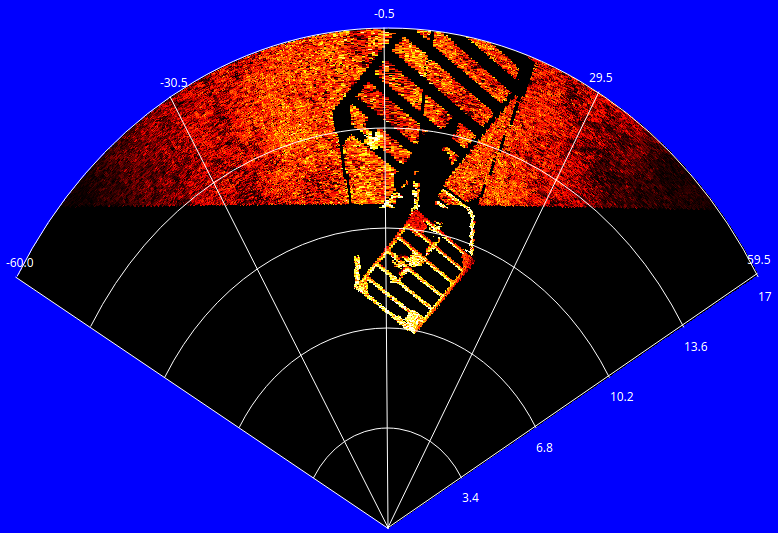
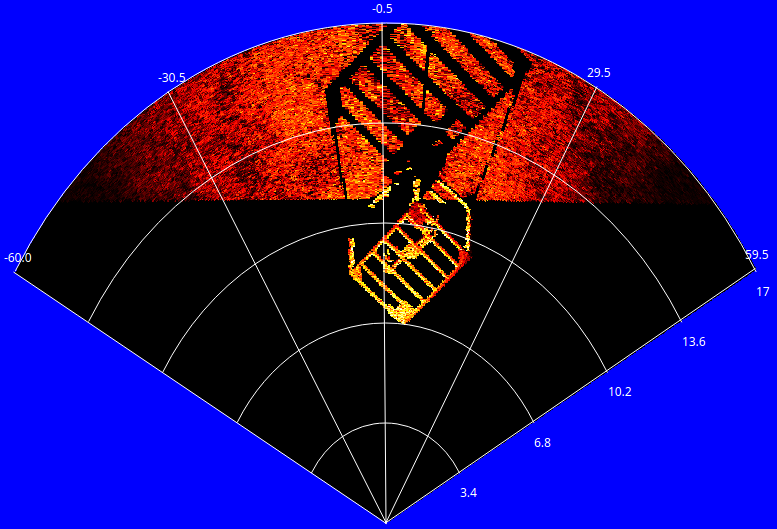
Update on Overleaf.

diff --git a/elsarticle-template-3-num.tex b/elsarticle-template-3-num.tex
@@ -590,7 +590,6 @@ using an MSIS located in the back of the AUV with a vertical orientation, the sc
 All the experimental scenarios was defined in order to provide enough variability of specific phenomena usually found in real sonar images, such as acoustic shadows, noise interference, surface irregularities and properties, distortion during the acquisition process and changes of acoustic intensities. However, the speckle noise application is restricted to regions with acoustic intensity, as shown in Figs. \ref{fig:fls_sim3} and \ref{fig:msis_sim1}. This fact is due to our sonar model be multiplicative (defined in Eq. \ref{eq:2}). In real sonar images, the noise also granulates the shadows and blind regions. The sonar simulator can be improved by inserting an additive noise to our model.
 The impact of incorporating additive noise on the image is more severe than that of multiplicative, and we decided to collect more data before including a specific additive noise in our simulator, at this moment. A second feature missing in our simulated acoustic images are the ghost effects caused by reverberation. This lacking part can be addressed by implementation of a multi-path propagation model \cite{huang2015b}, where the signal propagates along several different paths, resulting in fading and reverberation effects. Simulating the multi-path reflection is computationally costly, thus we need more time to modeling and including the reverberation phenomenon, to consider the real-time constraints.
 
-
 \begin{figure*}[!ht]
     \centering
     \setcounter{subfigure}{0}
@@ -600,12 +599,22 @@ The impact of incorporating additive noise on the image is more severe than that
     }
     \setcounter{subfigure}{1}
     \subfigure[]{
-        \includegraphics[width=0.4\paperwidth,height=6cm]{figs/eval_ssiv_sim2}
+        \includegraphics[width=0.4\paperwidth,height=6cm]{figs/eval_ssiv_sim}
         \label{fig:eval:ssiv:sim}
     }
+    \setcounter{subfigure}{2}
+    \subfigure[]{
+        \includegraphics[width=0.4\paperwidth,height=6cm]{figs/eval_tank_real}
+        \label{fig:eval:tank:real}
+    }
+    \setcounter{subfigure}{3}
+    \subfigure[]{
+        \includegraphics[width=0.4\paperwidth,height=6cm]{figs/eval_tank_sim}
+        \label{fig:eval:tank:sim}
+    }
     \captionsetup{justification=justified}
-    \caption{\textcolor{blue}{Real-world sonar image of SSIV taken with Tritech Gemini 720i \subref{fig:eval:ssiv:real} and the virtual image generated by our approach \subref{fig:eval:ssiv:sim}.}}
-    \label{fig:eval:real}
+    \caption{\textcolor{blue}{Real-world sonar images and the virtual images generated by our approach, with the same device configurations: SSIV taken with Tritech Gemini 720i \subref{fig:eval:ssiv:real} and the corresponding simulated FLS image \subref{fig:eval:ssiv:sim}; tank walls taken with Tritech Micron DST \subref{fig:eval:tank:real} and the corresponding simulated MSIS representation \subref{fig:eval:tank:sim}.}}
+    \label{fig:eval}
 \end{figure*}
 
 \subsection{Computational time}
@@ -618,32 +627,17 @@ proportional to sonar image resolution, we can conclude that the number of bins 
 
 \subsection{\textcolor{blue}{Quality evaluation of the simulated sonar image}}
 
-\textcolor{blue}{Numerically assessing the performance of a sonar simulator is a non-trivial task. As sonar simulators must work as trustworthy environment to avoid in-field experiments, the goal of the quantitative evaluation should be to demonstrating that the real-world sonar image can be aligned with the synthetic one. Just two \cite{sac2015,demarco2015} out of the seven works analyzed in Section \ref{introduction} perform quantitative evaluation of the proposed simulators, although restricted only to computational time assessment.}
+\textcolor{blue}{Numerically assessing the performance of a sonar simulator is a non-trivial task. As sonar simulators is expected to work as trustworthy environment to avoid in-field experiments, the goal of the quantitative evaluation should be to demonstrating that the real-world sonar image can be aligned with the synthetic one. Just two \cite{sac2015,demarco2015} out of the seven works analyzed in Section \ref{introduction} perform quantitative evaluation of the proposed simulators, although restricted only to computational time assessment.}
 
-\textcolor{blue}{Image alignment should be carried out by considering a real-world and a virtual scene, both insonified by real and virtual sonar devices, respectively, in the exact same conditions. In other words, it means that we have to guarantee the same pose of the AUV in the real and virtual scenarios, which, in turn, should present the same elements being insonified; measuring the alignment of the images (real and virtual) works as comparing how much the simulated sonar image is similar to the real one with respect to pixel intensity and location.}
+\textcolor{blue}{Image alignment (similarity) should be carried out by considering a real-world and a virtual scene, both insonified by real and virtual sonar devices, respectively, in the exact same conditions. In other words, it means that we have to guarantee the same poses of the AUV in the real and virtual scenarios, which, in turn, should present the same elements being insonified; measuring the alignment of the images (real and virtual) works as comparing how much the simulated sonar image is similar to the real one with respect to pixel intensity and location.}
 
-\textcolor{blue}{The process of measuring the alignment (similarity) of two images can be performed by a set of measures, such as: mutual information (MI), mean-squared error (MSE), peak signal-to-noise ratio (PSNR), structural similarity index measure (SSIM), and interesting point detectors and distances (\textit{e.g.}, scale invariant feature transform - SIFT). To evaluate the alignment between the real and virtual images, we attempted to model two real scenes insonified by our AUV under the sea. Figure XX illustrated the two scenarios used to perform the evaluation. After the scenes were modeled, a pair of sonar images were produced: one from the real sonar device and another from the simulated sonar device, for each scene (see Figs. XX and XX). After that, we applied the five aforementioned alignment metrics to compute the degree of similarity between each pair of images.}
+\textcolor{blue}{The process of measuring the alignment of two images can be performed by a set of measures, such as: mutual information (MI), mean-squared error (MSE), peak signal-to-noise ratio (PSNR), structural similarity index measure (SSIM), and interesting point detectors and distances (\textit{e.g.}, scale invariant feature transform - SIFT). To evaluate the alignment between the real and virtual images, we attempted to model two real scenes insonified by our AUV under the sea. Figure XX illustrated the two scenarios used to perform the evaluation. After the scenes were modeled, a pair of sonar images were produced: one from the real sonar device and another from the simulated sonar device, for each scene (see Figs. XX and XX). After that, we applied the five aforementioned alignment metrics to compute the degree of similarity between each pair of sonar images.}
 %%% Colocar os resultados em tabelas
 %%%Analisar os resultados:
 %%% - Se forem bons: ótimo
 %%% - Caso contrário, analisar a dificuldade do alinhamento por conta de não garantir a mesma "pose" dos AUVS nas cenas real e simulada - provavelmente deve ir por aqui. reforçar também que os outros trabalhos seguem pela linha de "human visual analysis para verificar o realismo e que as imagens de sonar dos trabalhos analisados não são "boas"
 
 %%% Comentário de Rômulo: Resultados ruins das métricas podem ser explicados por problemas de: alinhamento, que implicam em mudanças de viewpoint e, consequentemente, shadows movements e mudanças significativas na representação acústica do objeto; atenuação do sinal; reverberação e interferências de fontes externas; além da simplificação do modelo 3d.
-
-% \begin{table*}
-%     \caption{Similarity evaluation between real-live and simulated sonar images.}
-%     \captionsetup{justification=justified}
-%     \label{table:evaluation}
-%     \begin{center}
-%         \begin{tabular}{| c | c | c | c | c | c |}
-%             \hline
-%              & MI & MSE & PSNR & SSIM & SIFT \\
-%             \hline
-%             Fig. XX     & 500       & $3^{\circ}$ x $35^{\circ}$        & 8.8	    & 0.7  & 113.4 \\ \hline
-%             Fig. XX     & 1000      & $3^{\circ}$ x $35^{\circ}$        & 34.5	& 1.6  & 29.0  \\ \hline
-%         \end{tabular}
-%     \end{center}
-% \end{table*}
 
 \begin{table}[t]
     \captionsetup{justification=justified}
@@ -653,10 +647,10 @@ proportional to sonar image resolution, we can conclude that the number of bins 
         \begin{tabular}{| c | c | c | c | c | c |}
             \hline
             \rule{0pt}{15pt}
-            \makecell[c]{Scene} & \makecell[c]{\shortstack{MI}} & \makecell[c]{\shortstack{MSE}} & \makecell[c]{\shortstack{PSNR}} & \makecell[c]{\shortstack{SSIM}} & \makecell{\shortstack{SIFT}}\\
+            \makecell[c]{Scene} & \makecell[c]{\shortstack{MI}} & \makecell[c]{\shortstack{MSE}} & \makecell[c]{\shortstack{PSNR}} & \makecell[c]{\shortstack{SSIM}} & \makecell{\shortstack{MS-SSIM}}\\
             \hline
-            SSIV   & 0.356 & 649.903 & 20.002 & 0.361 & - \\ \hline
-            Wreck  & - & - & - & - & - \\ \hline
+            SSIV  & 0.356 & 0.01  	& 20.002 & 0.361 & 0.737 \\ \hline
+            Tank  & 0.176 & 0.004 & 23.787 & 0.834 & 0.895 \\ \hline
         \end{tabular}
     \end{center}
 \end{table}
